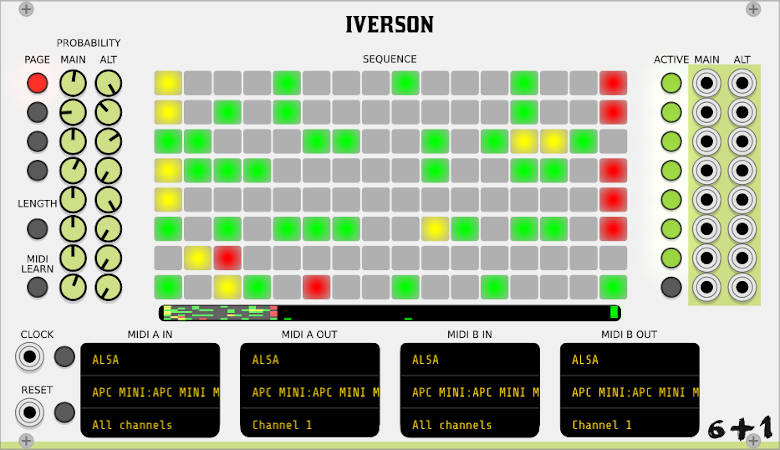
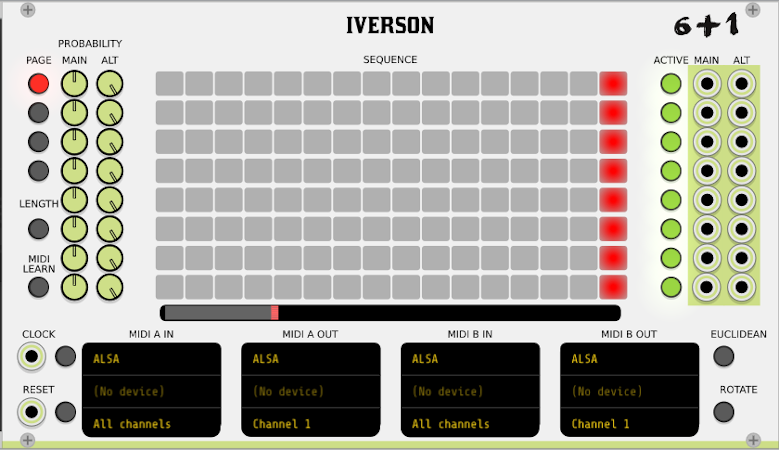
Iverson Documentation

diff --git a/README.md b/README.md
@@ -309,7 +309,8 @@ Iverson comes in two versions: a 16 step and an 8 step (Iverson Jr).
  - The factory presets for APC Mini
    - Iverson JR
      - Maps the sequencer grid.
-     - The lower buttons map the page selection, loop length and reset.
+     - The lower buttons map the page selection, loop length reset and rotate.
+     - The shift key is used to set Euclidean patterns.
      - The faders are assigned to the main probability controls.
    - Iverson
      - When used with dual controllers, same as above.

diff --git a/CHANGELOG.md b/CHANGELOG.md
@@ -26,8 +26,14 @@ Added Iverson and Iverson Jr
 
 ### V1.2.1 Iverson additions
 
-optimize MIDI feedback
-user selectable MIDI feedback
-new controller templates
+ - optimize MIDI feedback
+ - user selectable MIDI feedback
+ - new controller templates
+ - Euclidean beats
+ - Slow midi feedback mode
+ - Assignable midi controller feedback values in context menu. These can be used to select the colours shown on the controllers. These colour values vary between manufactures and models.
+ - Pattern Rotation
+  
+
 
 
